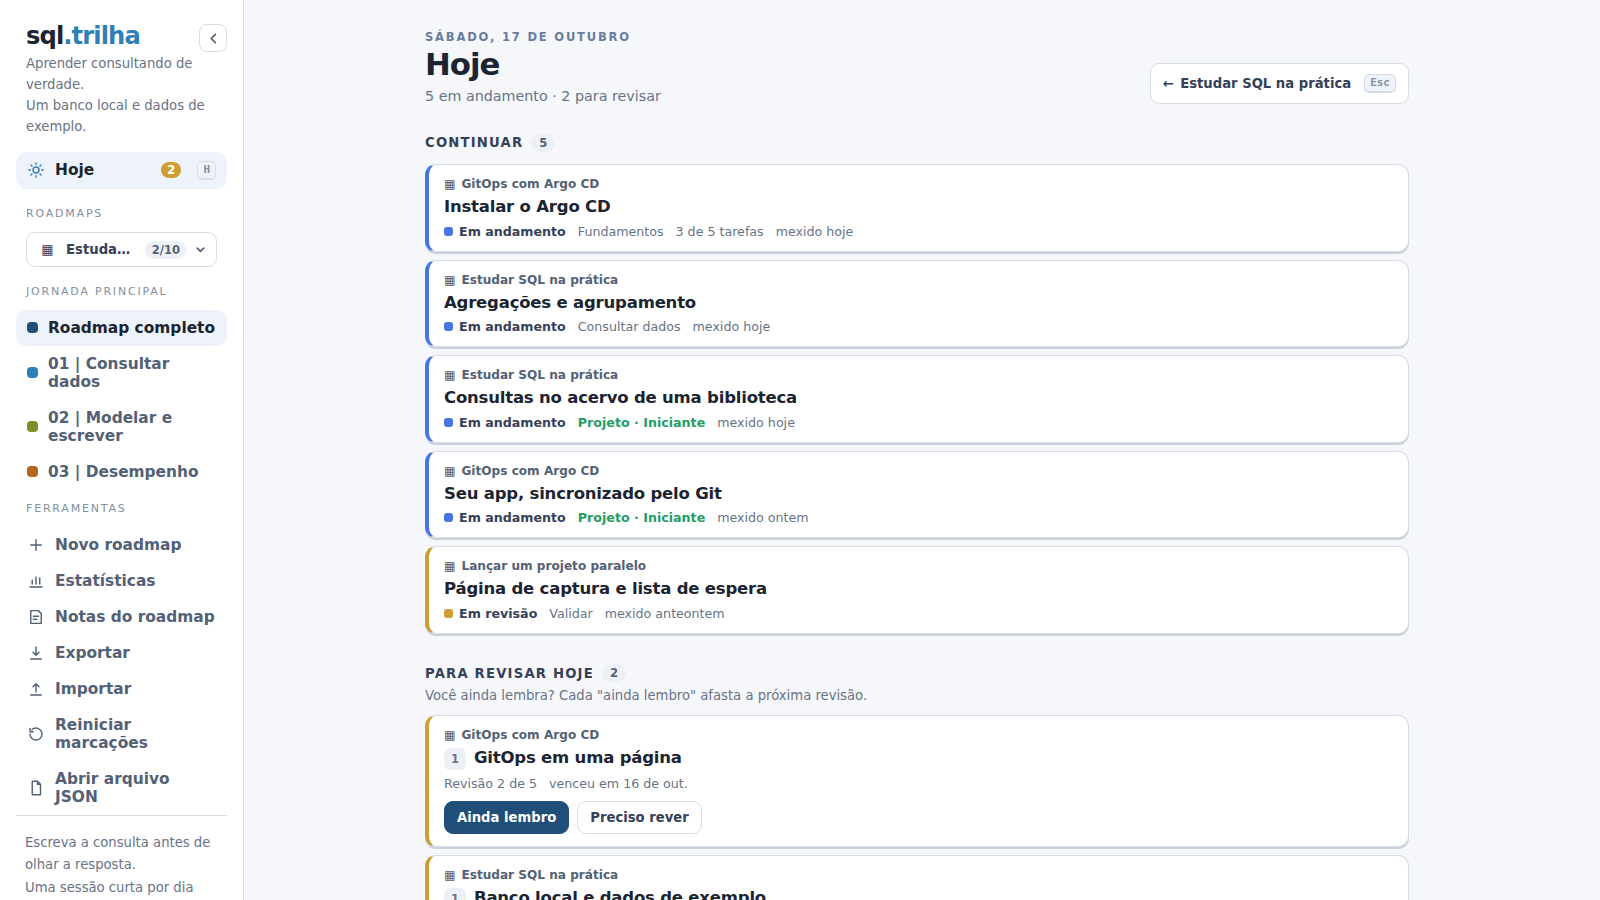
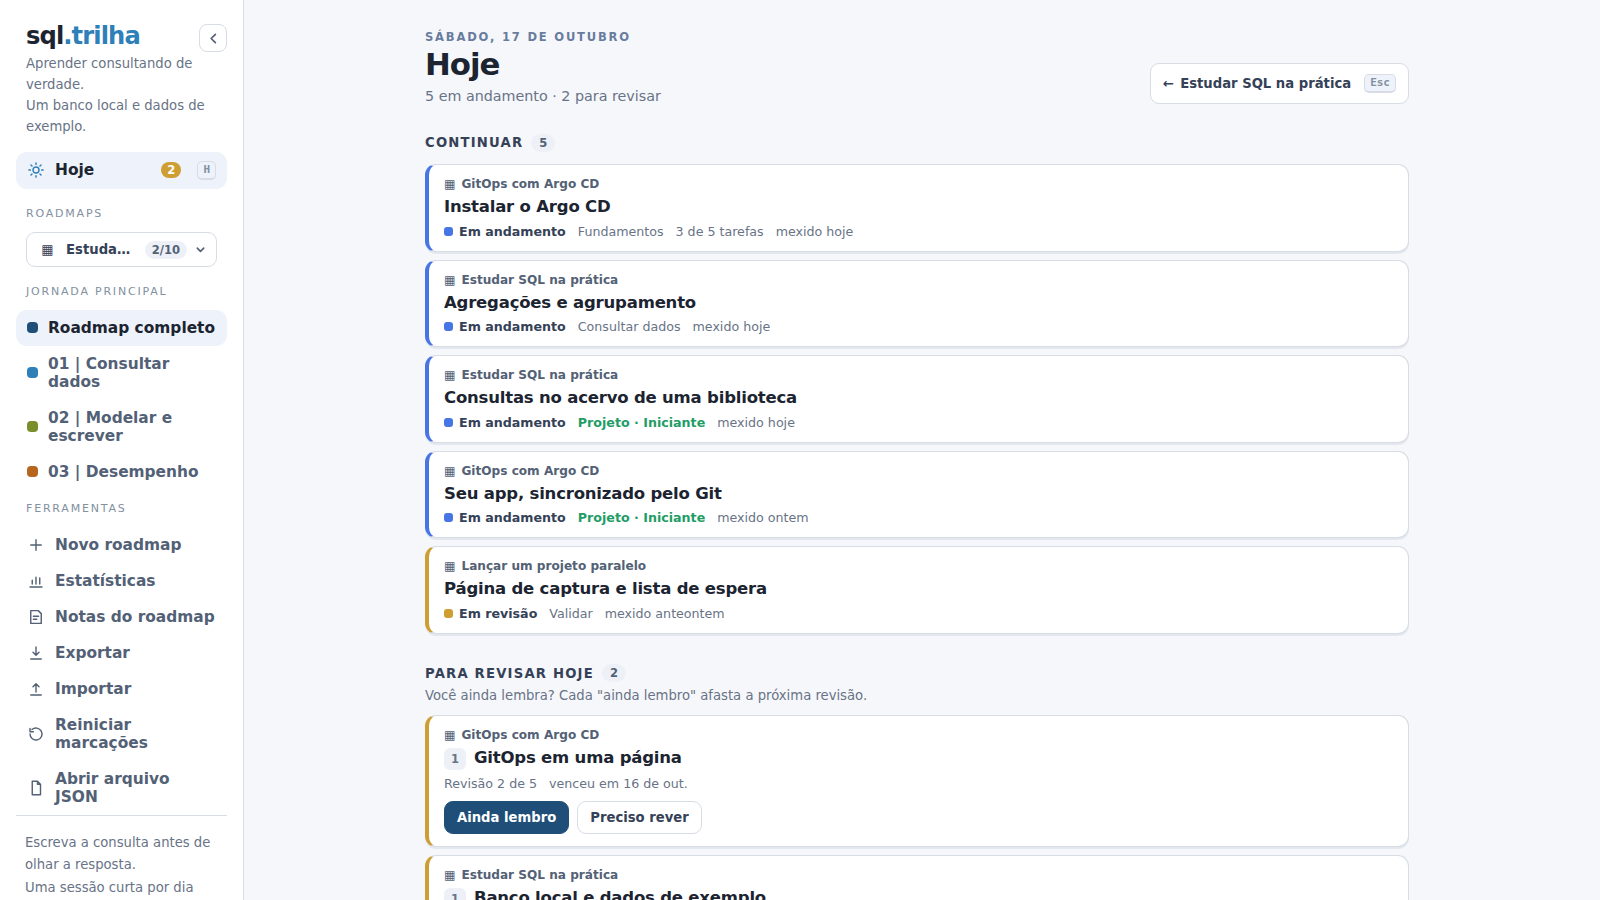
style: softer topic cards in light themes; media in varied themes and layouts
Topic cards on the map in Light, Mist and Paper get a soft border and a
soft shadow instead of a dark outline and a hard ledge.

The recordings now mix themes and layouts: Today in Night, projects on
Paper and notes on Plum with the sidebar folded, search on Mist and the
AI flow on Graphite, with a topic open in the details panel where it
fits. The themes collage shows each theme on a different screen (map,
Today, projects, statistics, kanban, notes, focus).

diff --git a/src/style.css b/src/style.css
@@ -1,7 +1,7 @@
 :root{--bg:#f6f7fb;--paper:#fff;--map-bg:#fbfcff;--map-dot:#d9dfe9;--fade:255,255,255;--toolbar-bg:rgba(246,247,251,.97);
 --surface:#eef2fa;--chip:#edf1f7;--line:#d7dce5;--line-soft:#e1e5ee;
 --ink:#1c2431;--ink2:#354157;--ink3:#536176;--dim:#687386;--faint:#8290a0;--eyebrow:#687c9d;
---node-border:#394454;--node-shadow:#c9d2dc;--node-glow:rgba(37,47,67,.05);--node-glow-hover:rgba(37,47,67,.09);
+--node-border:#c3ccd9;--node-shadow:#e3e8ef;--node-glow:rgba(37,47,67,.08);--node-glow-hover:rgba(37,47,67,.14);
 --sel:#4875e4;--sel-ring:rgba(72,117,228,.15);
 --ok-bg:#f2fbf6;--ok-border:#15955c;--ok-shadow:#b7dec8;--ok-chip:#daf4e5;--ok-ink:#157b51;--ok-solid:#168450;--bar:#1c945f;--path-ok:#25a36c;--ok-soft-bg:#e5f5eb;--ok-soft-ink:#187a4e;--ok-soft-border:#99d2b3;
 --ms-bg:#fff4d2;--ms-border:#cf9e32;--ms-ink:#8d621d;
@@ -33,12 +33,12 @@
 --brand-text:color-mix(in srgb,var(--brand) 62%,#fff);color-scheme:dark}
 /* palettes: each one only repaints the light or dark base above ("light" and "night" are the bases themselves) */
 :root[data-theme="light"][data-palette="mist"]{--bg:#e6e9ee;--paper:#f1f3f6;--map-bg:#eceff3;--map-dot:#d0d6df;--fade:236,239,243;--toolbar-bg:rgba(230,233,238,.96);
---surface:#e1e5eb;--chip:#e0e4ea;--line:#cdd3dc;--line-soft:#d7dce4;--node-shadow:#c2cad5;
+--surface:#e1e5eb;--chip:#e0e4ea;--line:#cdd3dc;--line-soft:#d7dce4;--node-shadow:#d3d9e1;--node-border:#b3bcc9;
 --opt-bg:#eef0f4;--res-bg:#edf0f4;--res-hover-bg:#e6ebf2;--legend-bg:#f1f3f6dd;--check-border:#b6c0cd;--scroll:#b3bccb;--drag-bg:rgba(225,230,238,.85)}
 :root[data-theme="light"][data-palette="paper"]{--bg:#f4efe6;--paper:#fbf8f2;--map-bg:#f8f3ea;--map-dot:#e2d8c6;--fade:248,243,234;--toolbar-bg:rgba(244,239,230,.97);
 --surface:#eee6d8;--chip:#ece3d3;--line:#ddd2bf;--line-soft:#e6dccb;
 --ink:#2b2418;--ink2:#463c2c;--ink3:#5f5340;--dim:#76695a;--faint:#968a78;--eyebrow:#8a7350;
---node-border:#4a3f30;--node-shadow:#d8ccb6;--node-glow:rgba(70,55,30,.06);--node-glow-hover:rgba(70,55,30,.1);
+--node-border:#d2c4ab;--node-shadow:#e6dccb;--node-glow:rgba(70,55,30,.09);--node-glow-hover:rgba(70,55,30,.1);
 --sel:#b85f2a;--sel-ring:rgba(184,95,42,.16);
 --opt-bg:#f9f5ee;--opt-border:#a39580;--opt-num-bg:#efe5f2;--opt-num-ink:#7a4f8f;
 --path:#c4b8a3;--path-opt:#c9bfae;--link:#9a4a1c;--focus:#d08a50;

diff --git a/CHANGELOG.md b/CHANGELOG.md
@@ -10,11 +10,12 @@ Each GitHub release also lists the commits since the previous version on its own
 - The details panel stays closed until you pick a topic or project (or press **Next topic**), and closes with its own button in the corner or `Esc`. On wide screens it is a column next to the map only while it is open, so the map gets the whole width the rest of the time. With the left sidebar folded too, only the roadmap is left in the middle.
 - The top bar only goes to a single row when the workspace really has the room (from 1800 px with the panel closed, 2140 px with it open), so the title no longer gets squeezed and the settings button never falls off the edge.
 - The line that shows while you resize the details panel no longer paints over the top bar.
+- Topic cards on the map in the light themes (Light, Mist, Paper) have a soft border and shadow instead of a dark outline.
 - In the demo, the notice about progress staying in the browser became a card in the sidebar (the page footer on phones) instead of a bar over the app. It can be hidden for 30 days, and it also says what needs the server. Statistics explain why they are empty there.
 
 ### Documentation
 - New guides, in Portuguese and English: **Day to day** (Today, spaced review and focus), **Projects** (in the interface and in the JSON), **Notes, export and share** and **Statistics**. The interface tour got shorter and links to them.
-- Every GIF and screenshot was redone from the current interface, plus new ones: Today, projects, notes, search, statistics (light and dark), focus, the seven themes and phone screens. The README and the website show them.
+- Every GIF and screenshot was redone from the current interface, plus new ones: Today, projects, notes, search, statistics (light and dark), focus, the seven themes (each on a different screen) and phone screens. They mix themes and layouts (details panel open, sidebar folded), and the README and the website show them.
 - The website has a new **A look around** section with the real screens.
 - `tools/demos/record.cjs` now builds the same believable state before each scene (progress, a project under way, notes, reviews due and months of activity), records with Chromium's own screencast and lets ffmpeg build lighter GIFs: all of them together weigh less than one of the old ones.
 
